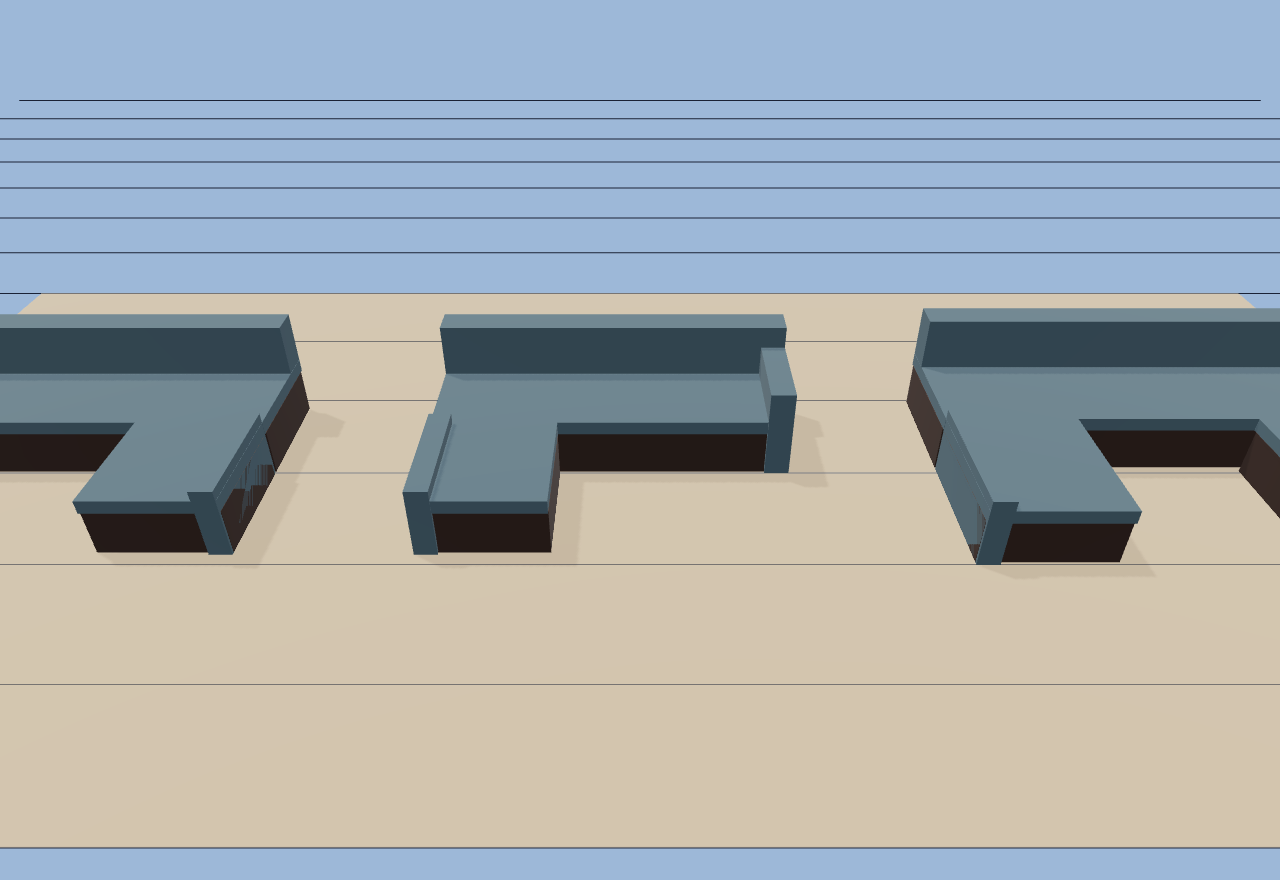
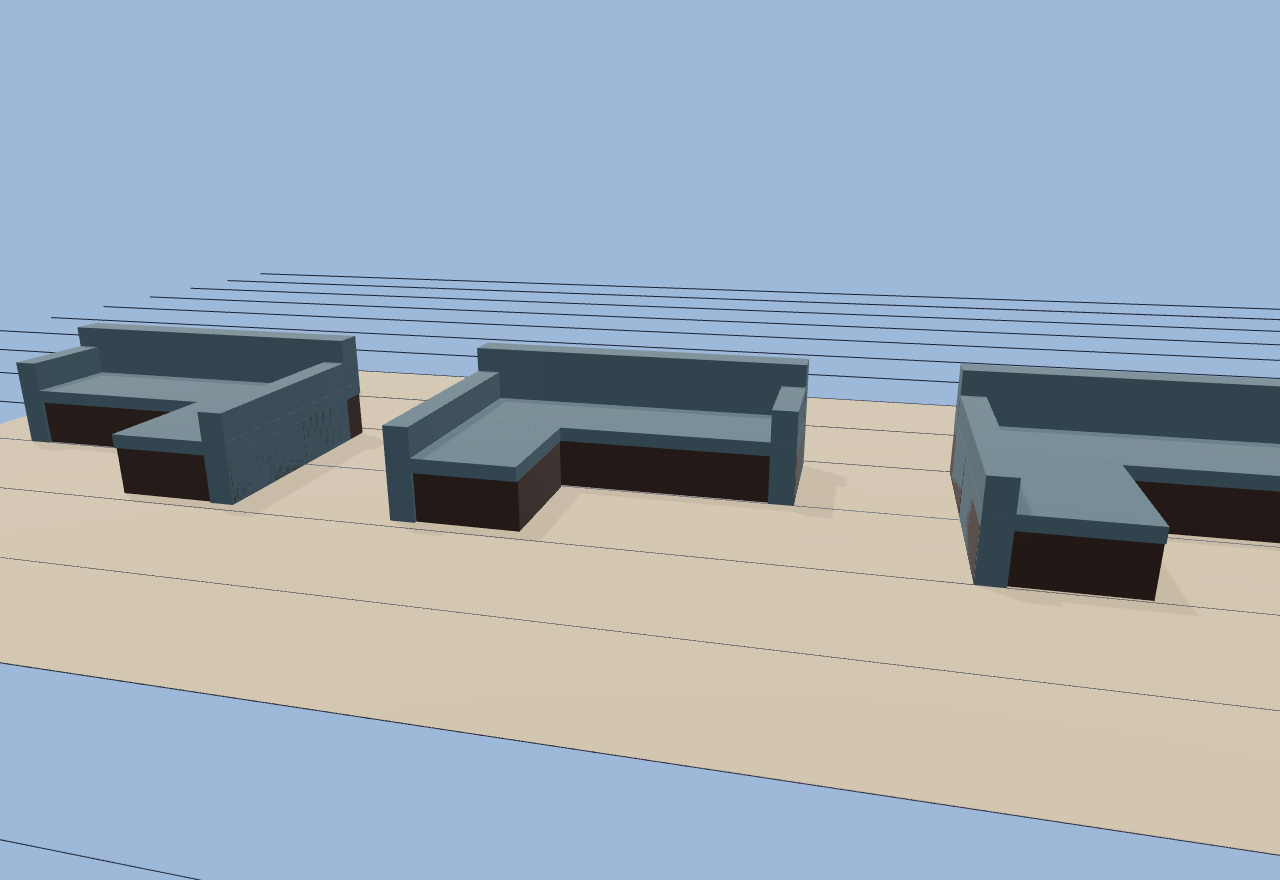
Fix sectional arm height + correct docs screenshots
The full-side chaise arm only rose to 0.62·HT — barely above the seat
cushions, so it read as missing. Raised to 0.78·HT. Recaptured the
sectional screenshot (was taken pre-fix) and fixed the stairs screenshot,
whose upper flight was rotated 180° (climbing back toward the landing
instead of away from it).

diff --git a/src/three-renderer.ts b/src/three-renderer.ts
@@ -905,8 +905,9 @@ export class ThreeDRenderer {
           addBox(retW, seatT, retD, cushion, sx * (W / 2 - retW / 2), seatY, retZ);
           addBox(retW, seatY - seatT / 2, retD * 0.95, dark, sx * (W / 2 - retW / 2), (seatY - seatT / 2) / 2, retZ);
           // Outer arm runs the FULL side — from the back band to the chaise
-          // front — not just the return section.
-          addBox(160, HT * 0.62, D - backT, cushion, sx * (W / 2 - 80), HT * 0.62 / 2, -backT / 2);
+          // front — and rises well above the seat cushions so it reads as an
+          // arm from every angle (0.62·HT barely cleared the 450 mm seat).
+          addBox(180, HT * 0.78, D - backT, cushion, sx * (W / 2 - 90), HT * 0.78 / 2, -backT / 2);
         }
         // Armrest on any main-run end without a return.
         for (const sx of [-1, 1]) {
